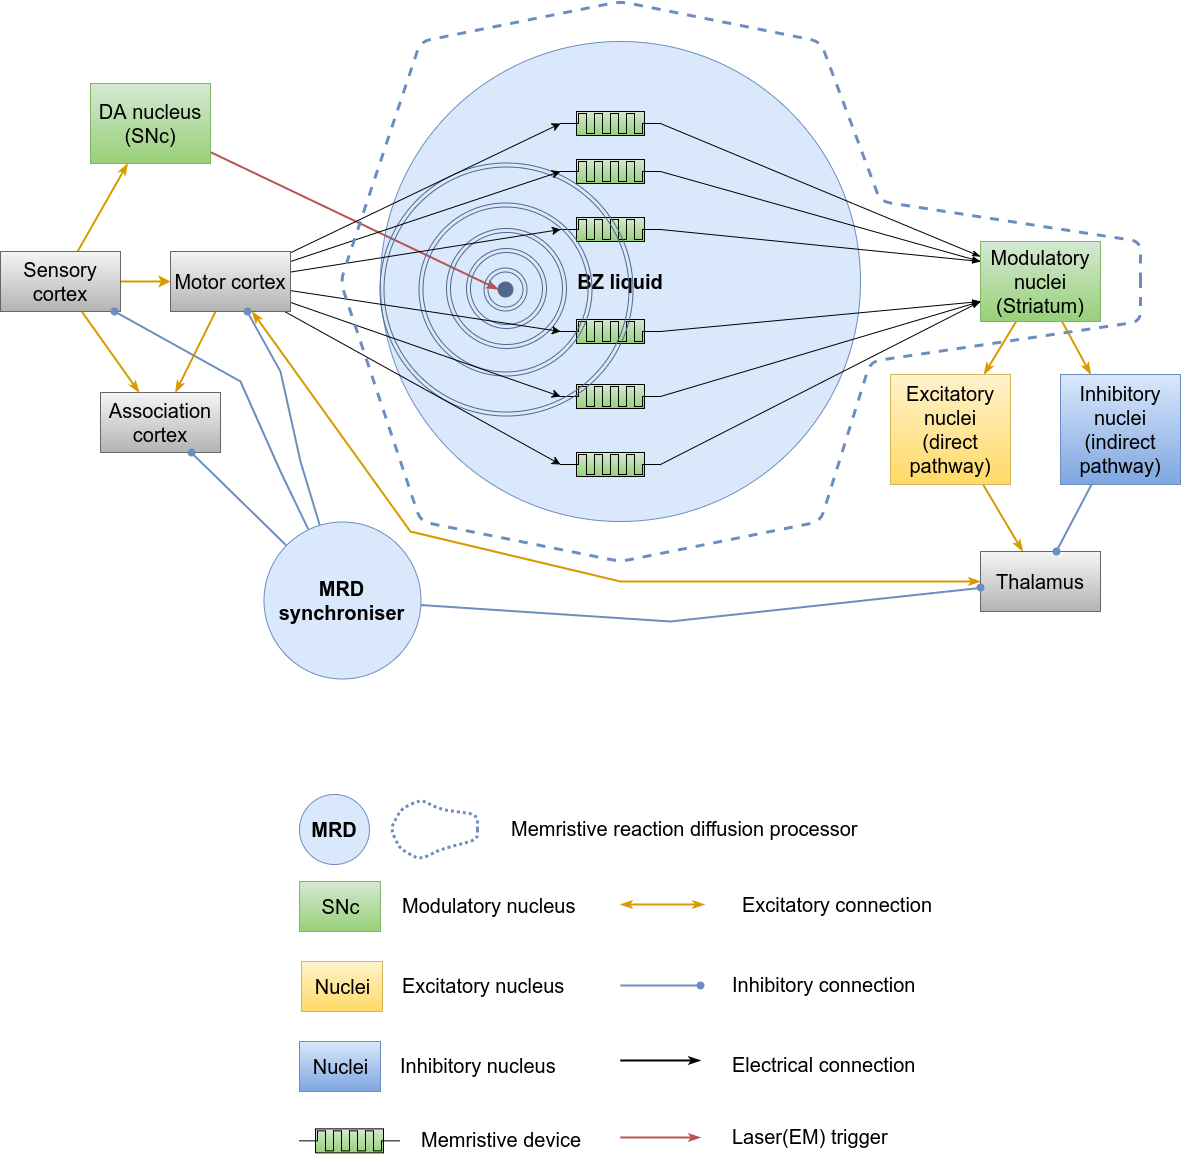
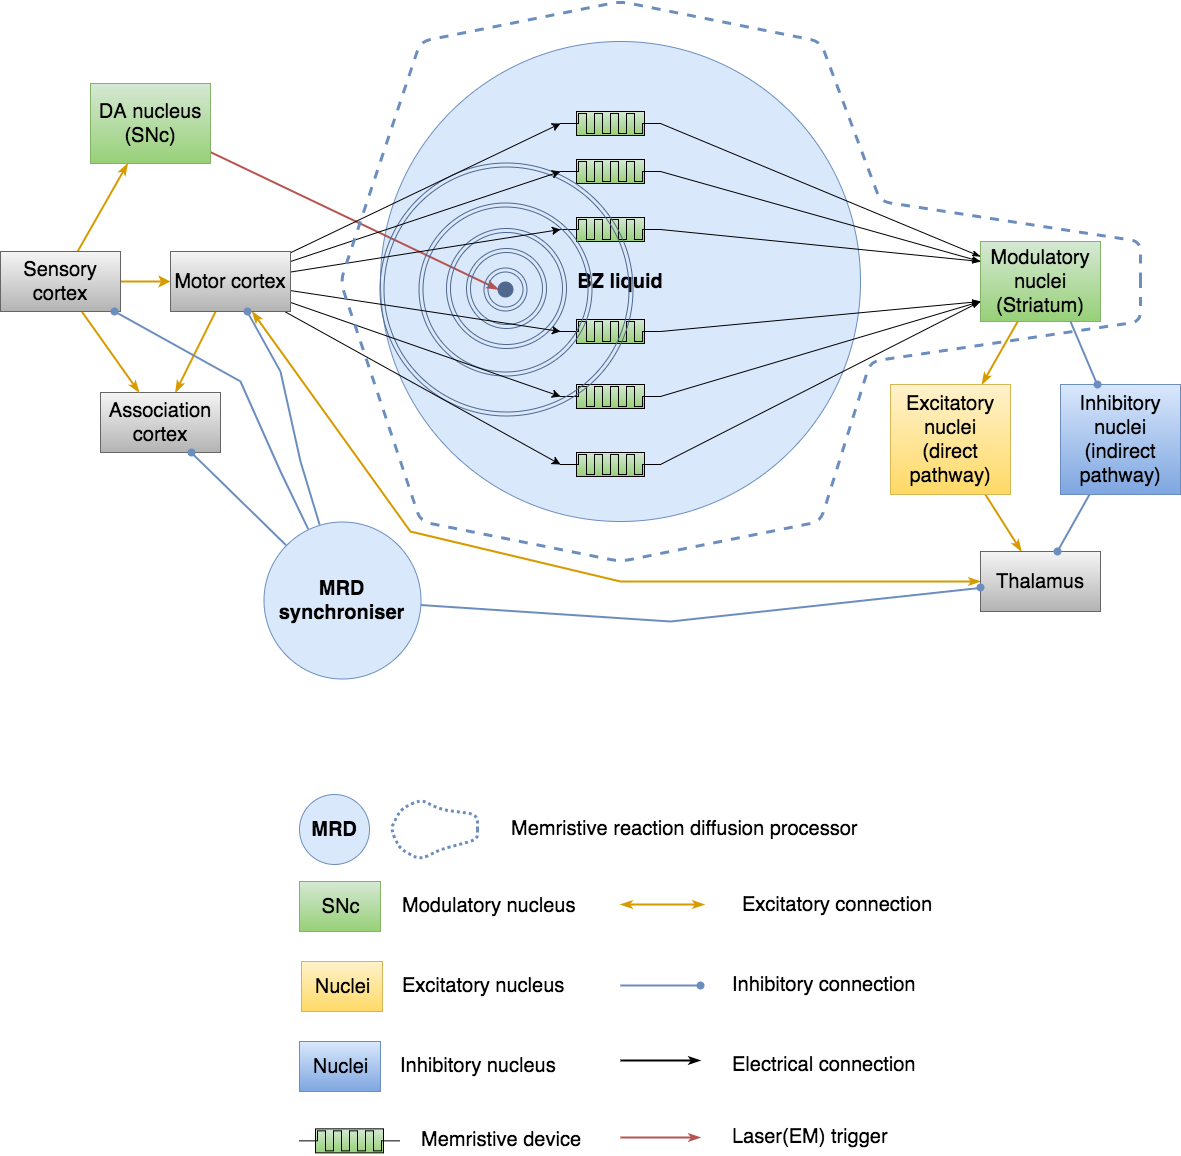
MRD: updated processor diagram

diff --git a/MRD_processor.md b/MRD_processor.md
@@ -2,7 +2,7 @@
 
 Memristive devices provide interesting option to be used as electronic synapses, connecting even biological cells. It seems to be reasonable to create the analog schematic adopting metaphor of neuron cells with the richness of inhibitory and neuromodulatory mechanisms. The interest in neuromodulatory mechanisms is based on our previous research during [NeuCogAr](https://github.com/research-team/NEUCOGAR) project, that is dedicated to the reimplementation of psycho-emotional states and is based on the model of Hugo Lövheim ["cube of emotion"](https://en.wikipedia.org/wiki/L%C3%B6vheim_cube_of_emotion) and neuromodulators: dopamine, serotonin, noradrenaline.
 
-# Neuron
+## Neuron
 
 Single neuron schematic is presented below: 
 
@@ -10,14 +10,16 @@ Single neuron schematic is presented below:
 
 The complete description is available [here](https://github.com/research-team/memristive-brain/blob/master/doc/memristive-brain_technical_roadmap.md#neuron).
 
-# Memristive reaction diffusion neuromodulation
+##  Memristive reaction diffusion neuromodulation
 
 Reaction diffusion computers are interesting alternative for traditional silicon processing units and their use in robotics was indicated by <span id="#a1">[Adamatzky 2005](#Adamatzky_2005)</span> and <span id="#a2">[Fontana 2011](#Fontana_2011)</span>.
 
 ![MRD processor high level architecture](MRD_modulator_synchroniser.png)
 
 Overall schematic is inspired by [nigrostriatal pathway of the dopamine subsystem of the mammalian brain](https://en.wikipedia.org/wiki/Basal_ganglia#Circuit_connections). 
-The modulating subsystem is inspired by dopamine modulation of striatum via D1, D2 receptors. DA nucleus (SNc - [substancia nigra compacta](https://en.wikipedia.org/wiki/Substantia_nigra)) triggers the [Belousov–Zhabotinsky (BZ) reaction](https://en.wikipedia.org/wiki/Belousov%E2%80%93Zhabotinsky_reaction) via laser and controls it via electromagnetic field [Adamatzky 2005]. The waves of the BZ reaction spreads through the reactor that contains the matrix of PANI devices [Fontana 2011]. The wave front of the maximum pH modulates increasing the conductivity of a PANI memristive devices.  
+The modulating subsystem is inspired by dopamine modulation of striatum via D1, D2 receptors. DA nucleus (SNc - [substancia nigra compacta](https://en.wikipedia.org/wiki/Substantia_nigra)) triggers the [Belousov–Zhabotinsky (BZ) reaction](https://en.wikipedia.org/wiki/Belousov%E2%80%93Zhabotinsky_reaction) via laser and controls it via electromagnetic field [Adamatzky 2005]. The waves of the BZ reaction spreads through the reactor (depicted as BZ circle) that contains the matrix of PANI devices [Fontana 2011]. The wave front of the maximum pH modulates increasing the conductivity of a PANI memristive devices. Memristive devices that acts as synapses of the modulatory nuclei (Striatum) increases the activity of neurons of the modulatory nuclei implemented as silicon schematic. The increased pseudo-neuronal activity of the modulatory nuclei excites more the excitatory nuclei (that corresponds to direct part of the nigrostriatal pathway) and inhibitory nuclei (that corresponds to indirect part of the nigrostriatal pathway) 
+
+## References
 
 <b id="Adamatzky_2005">(Adamatzky 2005)</b> Adamatzky, A., Costello, B. D. L., & Asai, T. (2005). Reaction-diffusion computers. Elsevier. [↩](#a1)
 
